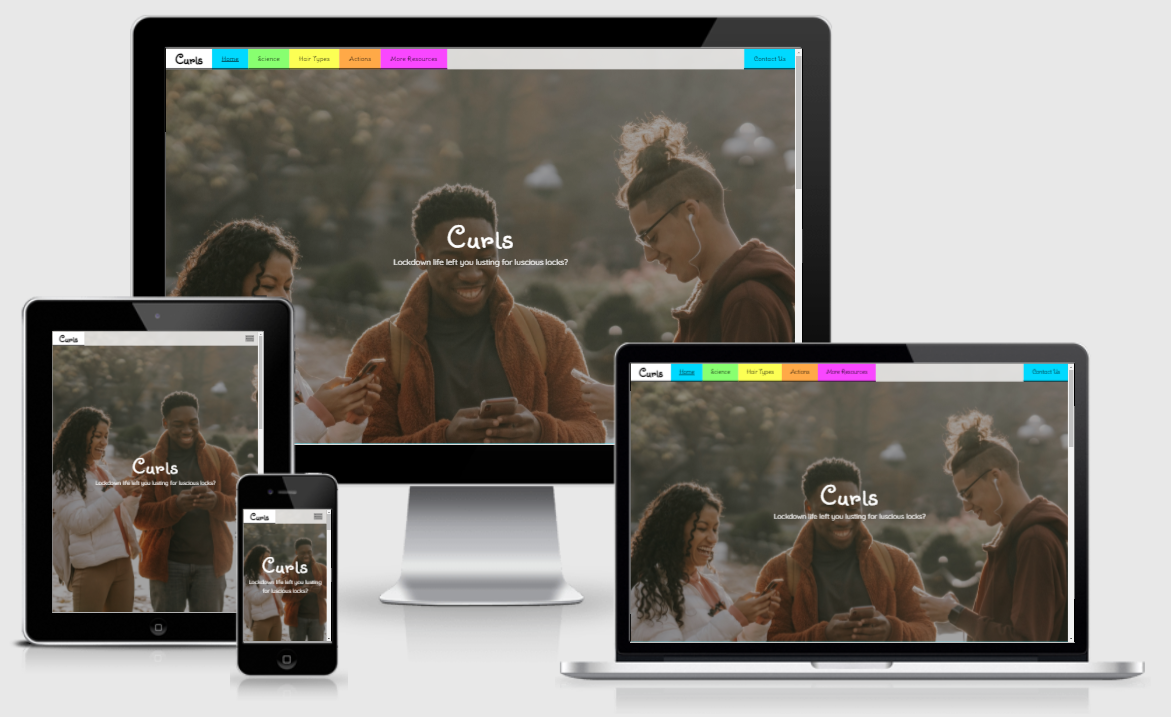
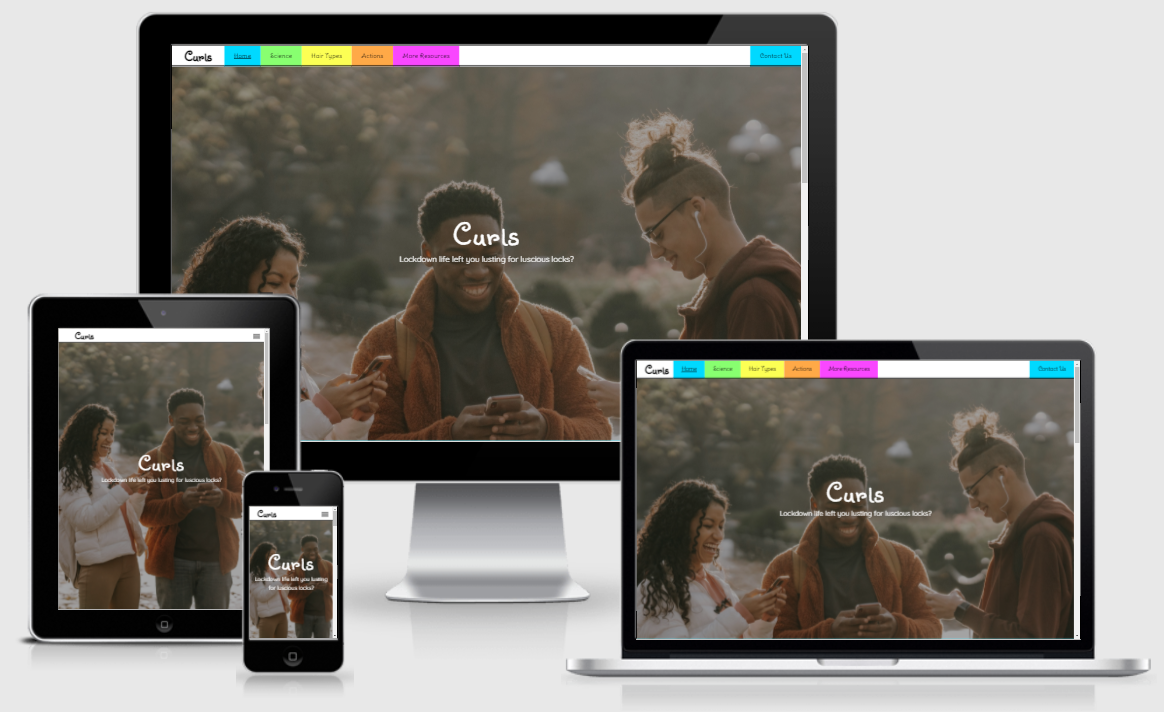
Update README and screenshots.

Changed region(s): [[0.0, 0.0, 0.9897, 0.9579], [0.3093, 0.1545, 0.3402, 0.1854], [0.2474, 0.1854, 0.2784, 0.2163]]

diff --git a/README.md b/README.md
@@ -45,7 +45,7 @@ Note, testing information can be found in a separate document:
 Adopters of curly specific haircare do tend to be female and younger, however this is rapidly changing as male grooming becomes more mainstream, and personal freedoms become more acceptable for all generations.  The users of this website therefore could be anybody, regardless of age or gender and the design is approached accordingly.
 *  Bright unisex colours are offset by classic, largely white sections and black/white text and details.
 *  Soft scrolling fonts are contrasted with sharp, angled corners and straight lines.
-*  Imagery is fairly inclusive, although it was not possible to find suitable pictures of older people with spectacular natural curly hair.
+*  Imagery is fairly inclusive, although it was not possible to find suitable pictures of older people with natural curly hair.
 
 ### **User Stories**
 1. As a new user, I want to quickly determine if the website contains information I need, so that I know quickly whether to stay on the page.
@@ -157,7 +157,7 @@ The most notable change between the original wireframes and the final version is
 *  None.
 
 ###### Changes Specific to Contact Page
-*  Remove Fieldset and Legend from form, page appeared cluttered and bitty as the appearance was very different to the other sections thorugh out the webpage.
+*  Remove Fieldset and Legend from form, page appeared cluttered and bitty as the appearance was very different to the other sections through out the webpage.
 
 ### **Surface**
 
@@ -298,7 +298,7 @@ An enormous number of best practice points became apparent on first review with 
 * Do not use !important unless it is absolutely unavoidable.  It can be difficult to understand the hierarchy of many attributes utilising !important.
 * Comments in code should use only the standard comment indicators, and not larger dash numbers as indicated in some tutorials.  HTML comments should have only two dashes, and CSS comments should have none.
 * Use Bootstrap classes for manipulation of space (padding/margin etc) rather than creating custom classes.
-* Always start a "col" div with col-12, regardless.
+* Always start a "col" div which will use all 12 columns on xs viewport with col-12.
 * Text on mobile should be consistently left, center or justify, always.
 * Footer styling should match nav styling.
 * Contrast is important, Lighthouse should rate it as at least AA.
@@ -345,7 +345,7 @@ Not much changed in terms of the 5 Planes of Design, or the use of wireframes, h
 * CSS3 is used to provide most of the styling for the website.
   * About: [CSS3 Wiki](https://en.wikipedia.org/wiki/CSS)
   * Creator: [W3 Consortium](https://www.w3.org/)
-* JavaScript elements are used via Boostrap and directly for modal validation.
+* JavaScript elements are used via Bootstrap and directly for modal validation.
   * About: [JavaScript Home](https://www.javascript.com/)
 
 ### **Libraries and Frameworks**
@@ -446,7 +446,7 @@ Thank you in particular to:
 * Stephen Seagrave for early help on using custom style with Bootstrap.
 * Simen Daehlin for assistance with everything from Font Awesome and Bootstrap CDNs to contrast to JavaScript.
 
-Also generally to the Code Institute mentoring and tutoring teams, and the Slack community especially the channel leads and alumni who take the time to ensure any queries are at least recognised.
+Also generally to the Code Institute mentoring and tutoring teams (I apologise for the degree of difficulty presented by the desire to add a border to the nav!), and the Slack community especially the channel leads and alumni who take the time to ensure any queries are at least recognised.
 
 ### **README Credits**
 
